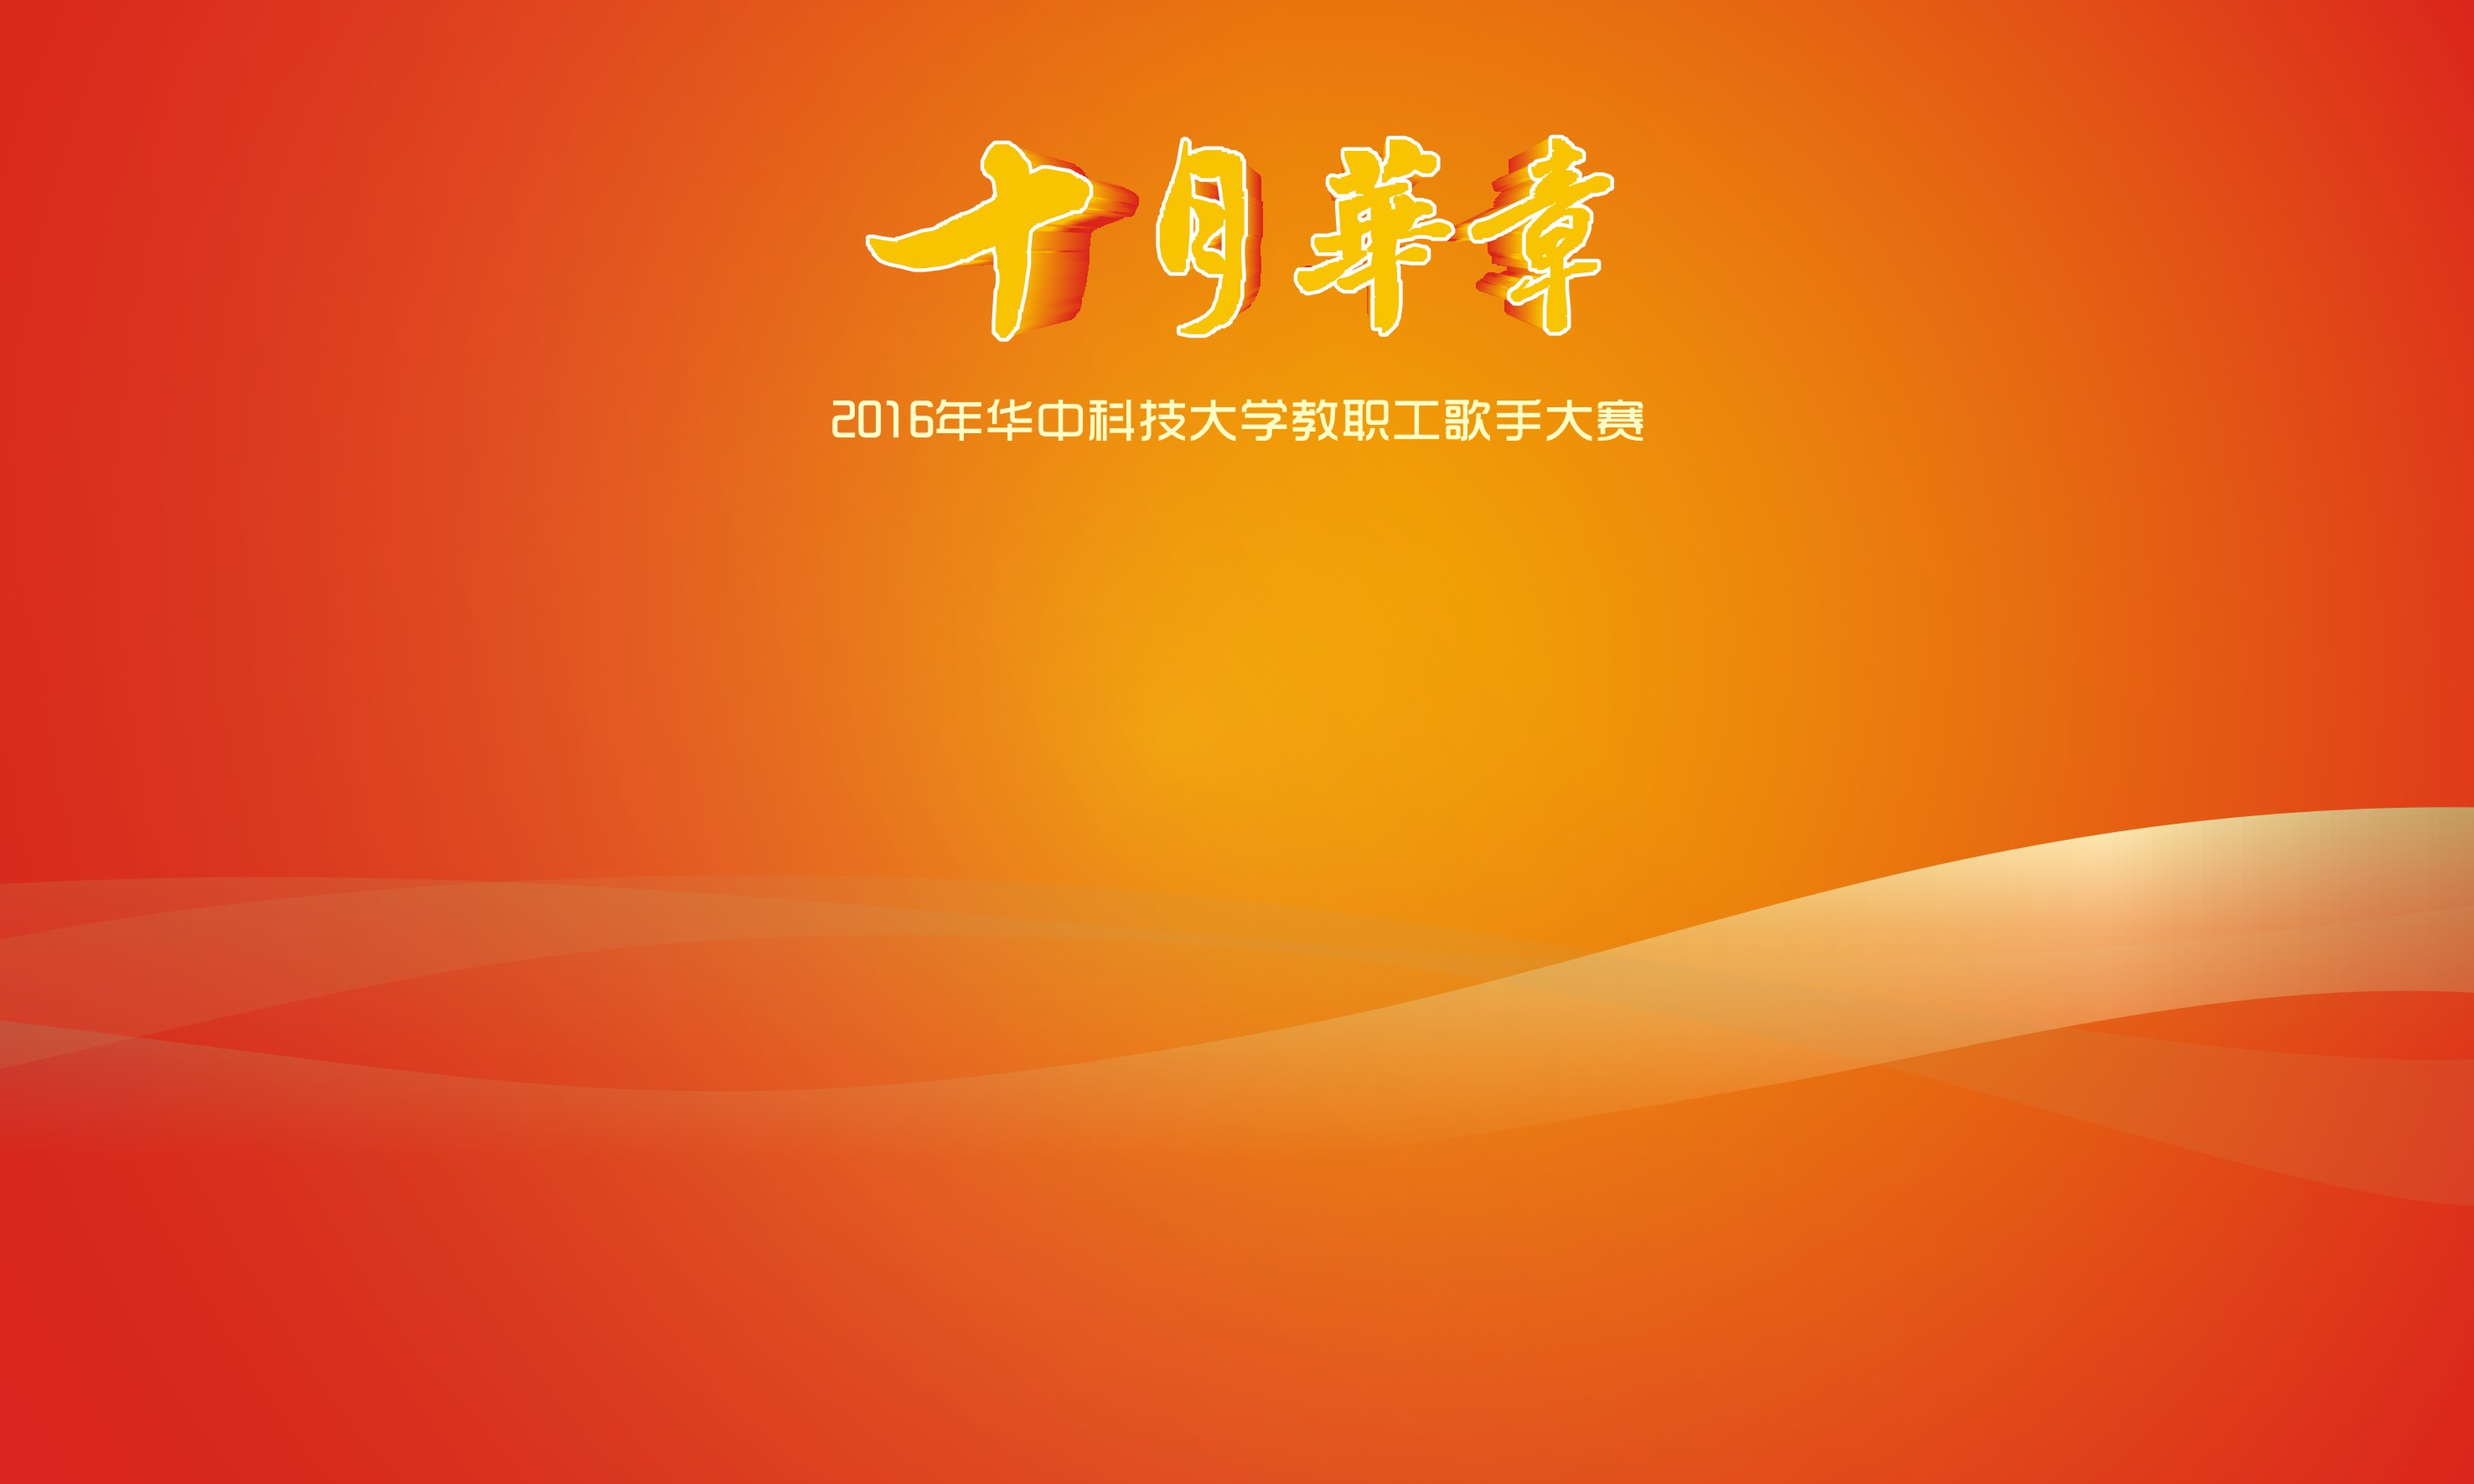
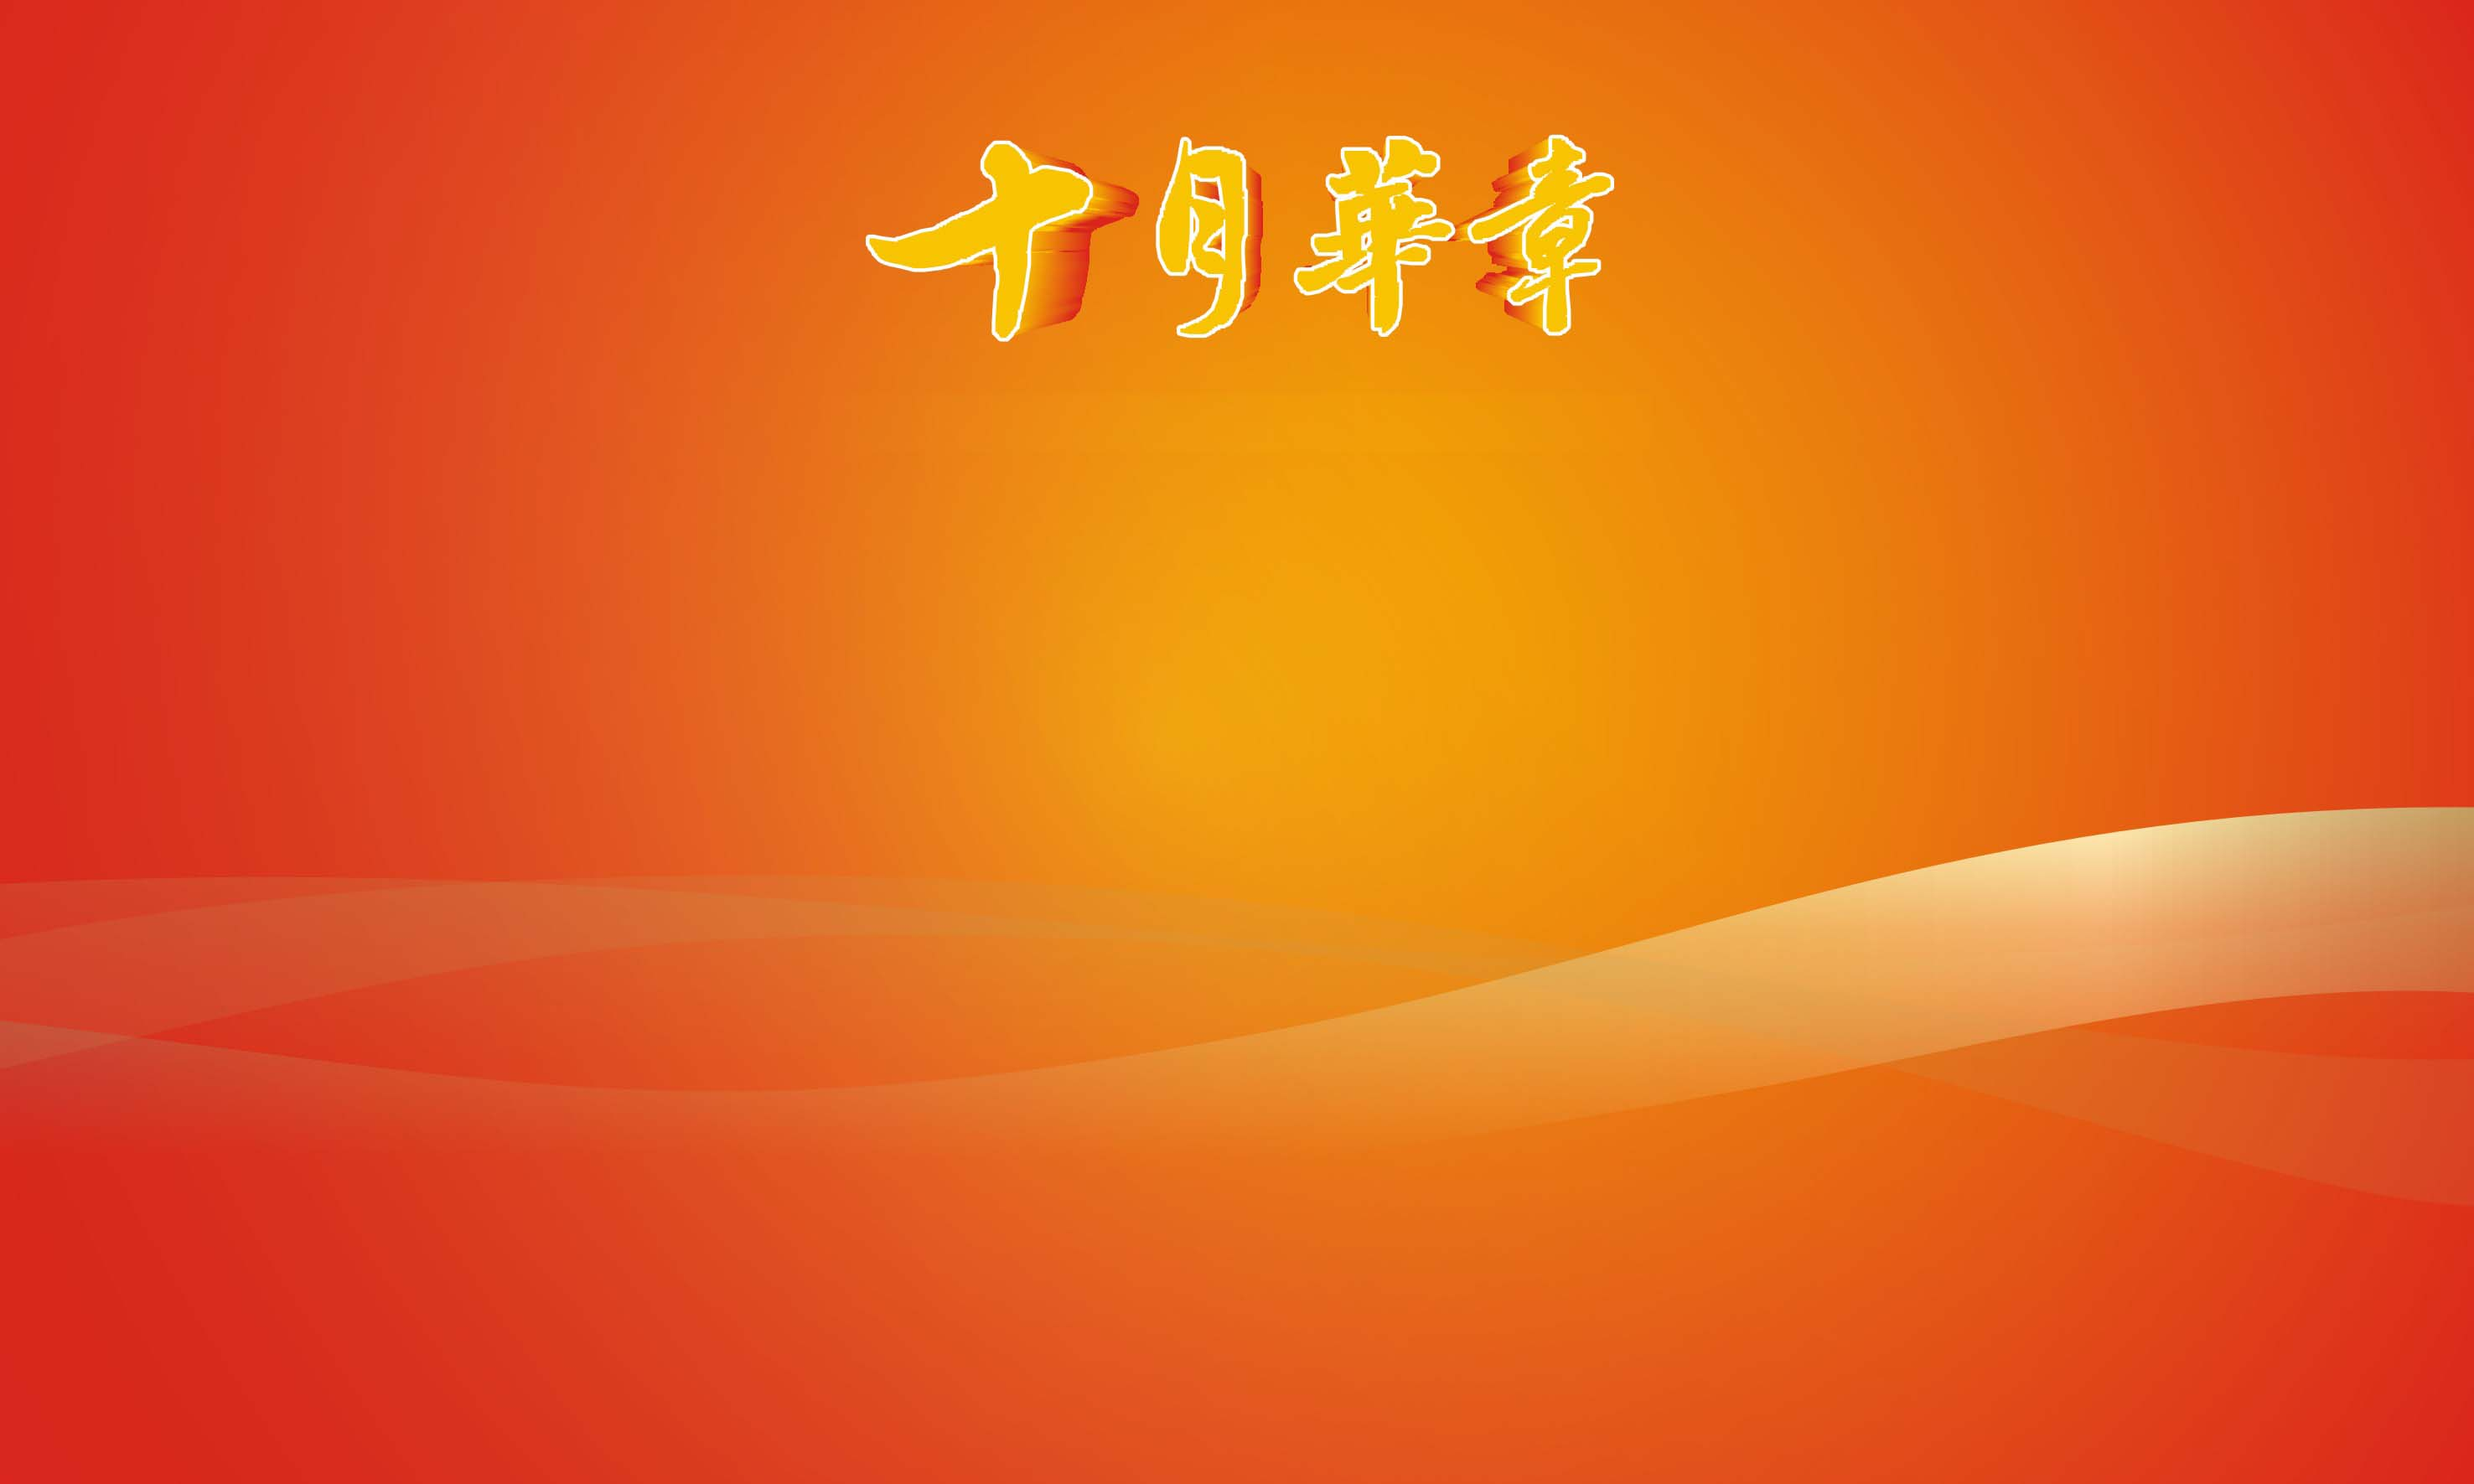
lastVote one person resultShow change

Changed region(s): [[0.3428, 0.2484, 0.6856, 0.3106]]

diff --git a/css/result.css b/css/result.css
@@ -80,7 +80,7 @@ body {
   min-width: 960px;
   height: 100%;
   font-size: 0;
-  background-image: url("../images/background.jpg");
+  background: url("/static/images/background.jpg") center;
   -moz-background-size: cover;
   -o-background-size: cover;
   -webkit-background-size: cover;
@@ -88,12 +88,17 @@ body {
 }
 
 /* line 19, ../sass/result.scss */
-h1 {
+.title {
   position: absolute;
-  top: 32%;
+  top: 23%;
   left: 0;
   width: 100%;
-  font-size: 36px;
+}
+
+/* line 25, ../sass/result.scss */
+h1 {
+  width: 100%;
+  font-size: 50px;
   color: #FDFBC9;
   text-align: center;
   -moz-transition: all 1s ease-in-out 0s;
@@ -103,7 +108,7 @@ h1 {
   transition: all 1s ease-in-out 0s;
 }
 
-/* line 30, ../sass/result.scss */
+/* line 33, ../sass/result.scss */
 .wrap {
   position: absolute;
   left: 0;
@@ -111,7 +116,7 @@ h1 {
   width: 100%;
 }
 
-/* line 37, ../sass/result.scss */
+/* line 40, ../sass/result.scss */
 .showList {
   -moz-transition: opacity 1s ease-in-out 0s;
   -o-transition: opacity 1s ease-in-out 0s;
@@ -120,7 +125,7 @@ h1 {
   transition: opacity 1s ease-in-out 0s;
   z-index: 1;
 }
-/* line 40, ../sass/result.scss */
+/* line 43, ../sass/result.scss */
 .voteSumWrap {
   position: relative;
   bottom: 0;
@@ -129,28 +134,27 @@ h1 {
   vertical-align: bottom;
 }
 
-/* line 47, ../sass/result.scss */
+/* line 50, ../sass/result.scss */
 .relative-font {
   width: 100%;
   color: #fff;
   text-align: center;
-  font-size: 36px;
-  line-height: 40px;
+  font-size: 45px;
 }
 
-/* line 54, ../sass/result.scss */
+/* line 56, ../sass/result.scss */
 .allScore {
   margin-bottom: 10px;
 }
 
-/* line 57, ../sass/result.scss */
+/* line 59, ../sass/result.scss */
 .data {
   position: relative;
-  width: 80px;
+  width: 120px;
   margin: 0 auto;
   height: 0;
   padding-top: 1%;
-  background-color: #FFA500;
+  background-color: #FFC811;
   -moz-transition: all 1s ease-in-out 0s;
   -o-transition: all 1s ease-in-out 0s;
   -webkit-transition: all 1s ease-in-out;
@@ -158,13 +162,13 @@ h1 {
   transition: all 1s ease-in-out 0s;
 }
 
-/* line 66, ../sass/result.scss */
+/* line 68, ../sass/result.scss */
 .judgeScore {
   padding-top: 0;
-  background-color: #FF0000;
+  background-color: #ff8d00;
 }
 
-/* line 70, ../sass/result.scss */
+/* line 72, ../sass/result.scss */
 .position-font {
   position: absolute;
   top: 50%;
@@ -172,31 +176,31 @@ h1 {
   width: 100%;
   color: #fff;
   text-align: center;
-  font-size: 36px;
-  line-height: 40px;
+  font-size: 45px;
   -moz-transform: translate(0, -50%);
   -ms-transform: translate(0, -50%);
   -webkit-transform: translate(0, -50%);
   transform: translate(0, -50%);
 }
 
-/* line 81, ../sass/result.scss */
+/* line 82, ../sass/result.scss */
 .singerNumber {
   position: absolute;
-  left: 25%;
-  bottom: 30px;
-  width: 40px;
+  left: 18%;
+  bottom: 35px;
+  width: 50px;
   color: #fff;
-  font-size: 30px;
-  line-height: 40px;
+  font-size: 40px;
+  line-height: 50px;
   text-align: center;
-  background-color: #FFA500;
+  background-color: #FFC811;
   -moz-border-radius: 50%;
   -webkit-border-radius: 50%;
   border-radius: 50%;
+  text-shadow: 3px 3px 5px #000;
 }
 
-/* line 93, ../sass/result.scss */
+/* line 95, ../sass/result.scss */
 .singer {
   margin-top: 10px;
 }

diff --git a/js/vote.js b/js/vote.js
@@ -1,5 +1,6 @@
 var voteSubmit = document.getElementById('voteSubmit');
 document.forms.members[0].value = getCookie('openId');
+var lastVote=false;
 // var singerData = [{
 //     'id': '01',
 //     'name': '1_李一'
@@ -18,7 +19,7 @@ document.forms.members[0].value = getCookie('openId');
 // }];
 // showSinger(singerData);
 
-function showSinger(data, event) {
+function showSinger(data,event) {
     var docFrag = document.createDocumentFragment();
     for (var i = 0; i < data.length; i++) {
         var label = document.createElement('label');
@@ -34,8 +35,10 @@ function showSinger(data, event) {
             if (!singerNumber) {
                 alert('请投票！');
                 event.target.checked = !event.target.checked;
-            } else if (singerNumber > 3) {
-                alert('请选择3个参赛者！');
+            } else if(lastVote && singerNumber > 2) {
+                alert('请只选择1个选手！');
+            }else if (!lastVote && singerNumber > 3) {
+                alert('请选择3个选手！');
                 event.target.checked = !event.target.checked;
             }
         });
@@ -60,10 +63,10 @@ addEvent(voteSubmit, "click", function(event) {
     var singerNumber = document.querySelectorAll("input[name='singer']:checked").length;
     if (!singerNumber) {
         alert('请投票！');
-    } else if (singerNumber < 3) {
-        alert('请选择3个参赛者！');
-    } else if (singerNumber > 3) {
-        alert('请选择3个参赛者！');
+    } else if (!lastVote && singerNumber != 3) {
+        alert('请选择3个选手！');
+    } else if (lastVote && singerNumber != 1) {
+        alert('请选择1个选手！');
     } else {
         voteSubmit.disabled = true;
         getData("POST", "/vote", getFormQueryString("members"), function(event) {
@@ -92,7 +95,6 @@ getData("POST", "/voteGet", '', function(event) {
     if (xmlhttp.readyState == 4) {
         if (xmlhttp.status == 200) {
             var data = JSON.parse(xmlhttp.responseText);
-            showSinger(data.singers);
             switch (data.groupNumber) {
                 case 1:
                     document.getElementById('voteTime').innerText = "第1轮";
@@ -105,10 +107,13 @@ getData("POST", "/voteGet", '', function(event) {
                     break;
                 case 4:
                     document.getElementById('voteTime').innerText = "总决赛";
+                    document.getElementById('intr').innerText = "只投1人";
+                    lastVote = true;
                     break;
                 default:
                     break;
             }
+            showSinger(data.singers);
         } else {
             console.log("发生错误" + xmlhttp.status);
         }

diff --git a/html/result.html b/html/result.html
@@ -6,40 +6,43 @@
 	<link rel="stylesheet" type="text/css" href="/static/css/result.css">
 </head>
 <body>
-	<h1 id="title">第<span class="group" id="groupNumber">1</span>组选手得票情况</h1>
+	<div class="title">
+		<h1>2016年华中科技大学教职工歌手大赛</h1>
+		<h1 id="title">第<span class="group" id="groupNumber">1</span>组选手得票</h1>
+	</div>
 	<ul class="wrap showList" id="showList">
 		<li class="voteSumWrap">
 			<p class="allScore relative-font">0</p>
-			<div class="judgeScore data"><p class="judegeNum position-font"></p></div>
 			<div class="voteSum data"><p class="voteNum position-font"></p></div>
+			<div class="judgeScore data"><p class="judegeNum position-font"></p></div>
 			<span class="singerNumber"></span>
 			<p class="singer relative-font"></p>
 		</li>
 		<li class="voteSumWrap">
 			<p class="allScore relative-font">0</p>
-			<div class="judgeScore data"><p class="judegeNum position-font"></p></div>
 			<div class="voteSum data"><p class="voteNum position-font"></p></div>
+			<div class="judgeScore data"><p class="judegeNum position-font"></p></div>
 			<span class="singerNumber"></span>
 			<p class="singer relative-font"></p>
 		</li>
 		<li class="voteSumWrap">
 			<p class="allScore relative-font">0</p>
-			<div class="judgeScore data"><p class="judegeNum position-font"></p></div>
 			<div class="voteSum data"><p class="voteNum position-font"></p></div>
+			<div class="judgeScore data"><p class="judegeNum position-font"></p></div>
 			<span class="singerNumber"></span>
 			<p class="singer relative-font"></p>
 		</li>
 		<li class="voteSumWrap">
 			<p class="allScore relative-font">0</p>
-			<div class="judgeScore data"><p class="judegeNum position-font"></p></div>
 			<div class="voteSum data"><p class="voteNum position-font"></p></div>
+			<div class="judgeScore data"><p class="judegeNum position-font"></p></div>
 			<span class="singerNumber"></span>
 			<p class="singer relative-font"></p>
 		</li>
 		<li class="voteSumWrap">
 			<p class="allScore relative-font">0</p>
-			<div class="judgeScore data"><p class="judegeNum position-font"></p></div>
 			<div class="voteSum data"><p class="voteNum position-font"></p></div>
+			<div class="judgeScore data"><p class="judegeNum position-font"></p></div>
 			<span class="singerNumber"></span>
 			<p class="singer relative-font"></p>
 		</li>

diff --git a/js/result.js b/js/result.js
@@ -68,11 +68,11 @@ setInterval(function() {
                         changeVotes(data.singers, 0);
                         break;
                     case 4:
-                        document.getElementById('title').innerText = "总决赛选手得票情况";
+                        document.getElementById('title').innerText = "总决赛选手得票";
                         changeVotes(data.singers, 0);
                         break;
                     case 5:
-                        document.getElementById('title').innerText = "总决赛选手得分情况";
+                        document.getElementById('title').innerText = "总决赛选手得分";
                         changeVotes(data.singers, 1);
                         break;
                     default:

diff --git a/html/vote.html b/html/vote.html
@@ -7,7 +7,7 @@
 	<link rel="stylesheet" type="text/css" href="/static/css/style.css">
 </head>
 <body class="vote-bg">
-	<h1 class="title">第X届教职工歌唱比赛·<span id="voteTime">第一轮</span></br>评委投票（每组最多3人）</h1>
+	<h1 class="title">华中科技大学教职工歌手大赛·<span id="voteTime">第一轮</span></br>评委投票（<span id="intr">需投3人</span>）</h1>
 	<form name="members" method="POST" id="vote-1">
 		<input type="hidden" name="openId" value="">
 		<div id="checkboxWrap">
